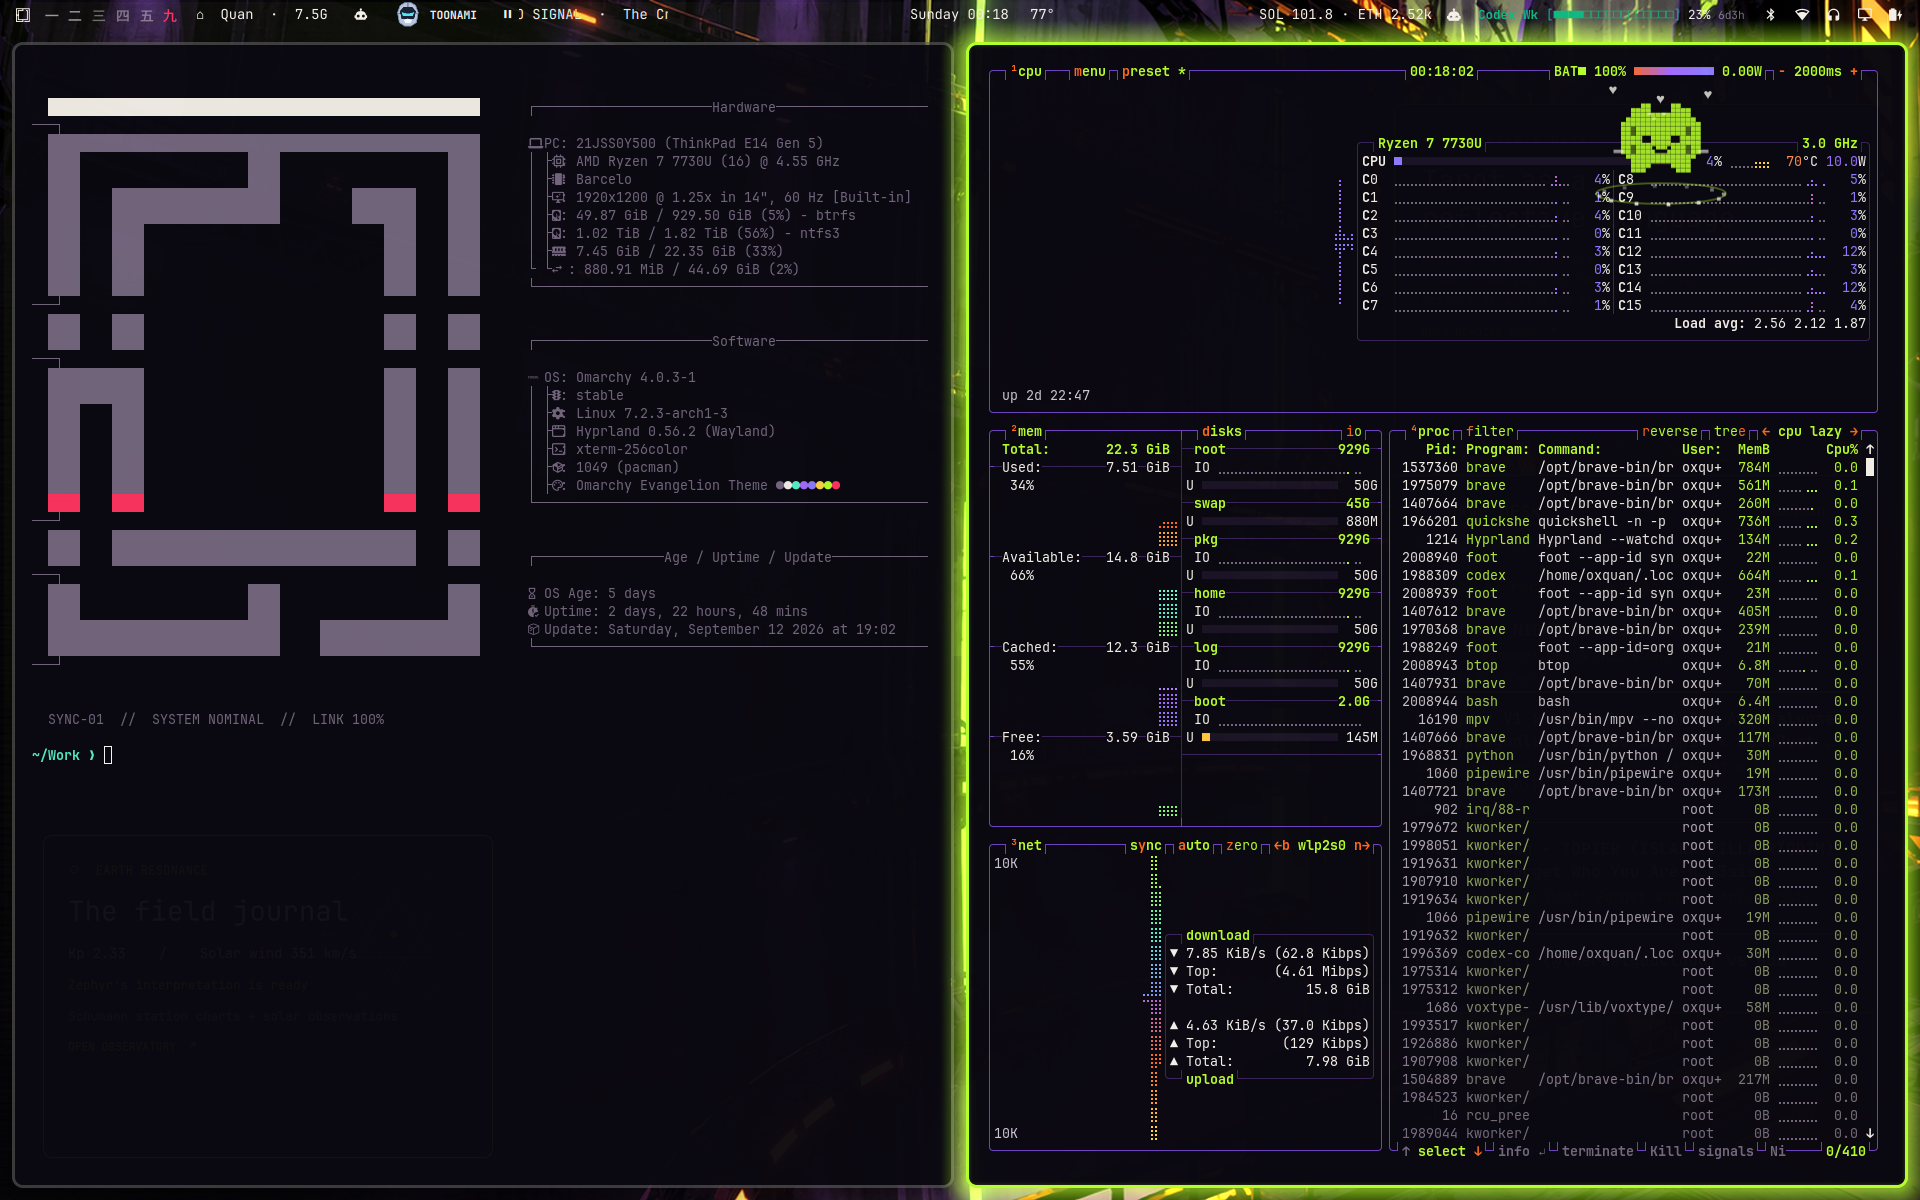
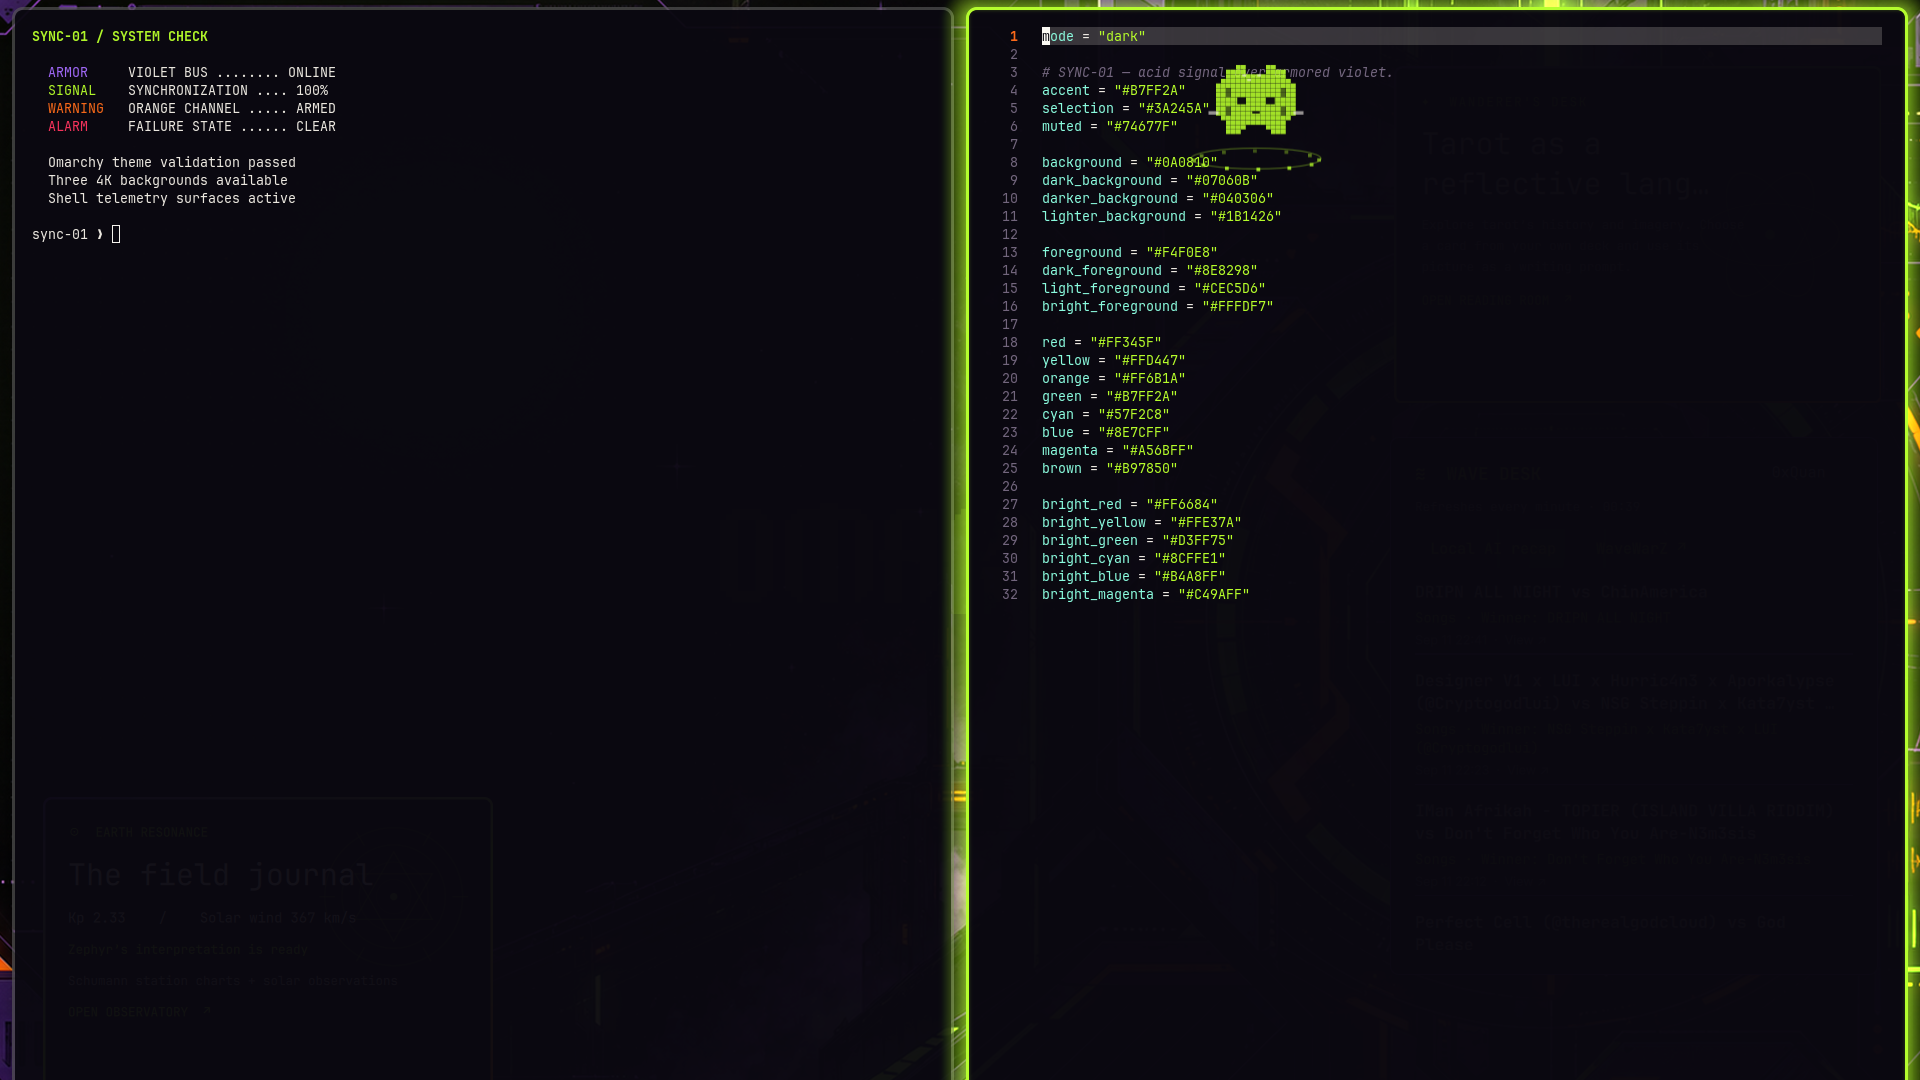
Prepare SYNC-01 for Omarchy marketplace

diff --git a/ARTWORK.md b/ARTWORK.md
@@ -4,7 +4,7 @@
 
 The three backgrounds in `backgrounds/` are original AI-assisted images generated for
 this theme with OpenAI's built-in image-generation tool on 2026-09-13. They were then
-resampled to 3840×2160 for consistent desktop use. The two official HiBy renders supplied
+resampled to 3840×2160 and encoded as quality-82 WebP for efficient desktop use. The two official HiBy renders supplied
 by the project owner were used only as visual style references during generation; the
 outputs were created from scratch and do not redistribute those source files.
 
@@ -16,7 +16,7 @@ product shapes, copied layouts, and recognizable franchise characters.
 
 Generation mode: OpenAI built-in image generation (`stylized-concept`).
 
-**01-cage-01.png:** Original high-impact biomechanical command-center wallpaper inspired
+**01-cage-01.webp:** Original high-impact biomechanical command-center wallpaper inspired
 by the supplied purple, neon-green, and electric-orange industrial hardware references.
 An enormous dark underground launch shaft with black-violet structural ribs and a suspended,
 original angular humanoid biomechanical silhouette mostly obscured on the right; luminous
@@ -25,7 +25,7 @@ and ample dark space on the left. Palette: `#08070D`, `#6F42C1`, `#9A68FF`, `#B7
 `#FF6B1A`, `#F4F0E8`. No text, letters, numbers, logos, watermarks, recognizable franchise
 character, emblem, copied interface, bright-white field, or blue-dominant palette.
 
-**02-synchro-array.png:** Original synchronization-telemetry wallpaper based on the supplied
+**02-synchro-array.webp:** Original synchronization-telemetry wallpaper based on the supplied
 industrial color language: a vast abstract command terminal with concentric hexagonal targeting
 rings, segmented waveforms, angular containment braces, micro-grid calibration marks, and
 layered smoked-glass panels. Retro-anime operations UI meets brutalist industrial design;
@@ -33,7 +33,7 @@ circular focus in the lower-right and a wide near-black working field on the lef
 `#08070D`, `#23123B`, `#6F42C1`, `#B7FF2A`, `#FF6B1A`, `#FF345F`. No readable writing,
 logos, insignia, watermarks, known characters, product shapes, or copied layouts.
 
-**03-terminal-gate.png:** Original emergency-launch environment using the supplied purple
+**03-terminal-gate.webp:** Original emergency-launch environment using the supplied purple
 chassis, green controls, and orange diagnostic-light palette: colossal sealed blast doors in a
 subterranean corridor, angular violet armor, neon-green coolant channels, orange hazard strips,
 floor beacons, vapor, cables, wet reflections, and a distant green slit. Cinematic hand-painted

diff --git a/README.md b/README.md
@@ -13,13 +13,13 @@ the HiBy reference renders are **not** redistributed.
 ## Install
 
 ```bash
-omarchy theme install https://github.com/0xQuan93/omarchy-evangelion-theme.git
+omarchy theme install https://github.com/0xQuan93/omarchy-sync-01-theme.git
 ```
 
 Omarchy applies a newly installed theme immediately. Later, select it again with:
 
 ```bash
-omarchy theme set omarchy-evangelion-theme
+omarchy theme set sync-01
 ```
 
 Cycle the three 4K wallpapers with:
@@ -71,7 +71,8 @@ executable theme files.
 ## Validate locally
 
 ```bash
-python3 tests/validate_theme.py
+python3 -c 'import pathlib, tomllib; tomllib.loads(pathlib.Path("colors.toml").read_text())'
+identify preview.png preview-unlock.png unlock.png backgrounds/*.webp
 ```
 
 ## Fan-project notice

diff --git a/CONTRIBUTING.md b/CONTRIBUTING.md
@@ -10,4 +10,5 @@ Contributions should preserve the theme's semantic hierarchy and public-repo hyg
   photography, copied interfaces, commercial fonts, or unlicensed third-party media.
 - Screenshots must not expose private windows, notifications, account data, or third-party
   copyrighted media.
-- Run `python3 tests/validate_theme.py` before opening a pull request.
+- Parse `colors.toml` and inspect every image's dimensions and decoding before opening a
+  pull request; the commands in the README are the portable baseline.

diff --git a/screenshots/README.md b/screenshots/README.md
@@ -1,7 +1,8 @@
 # Screenshots
 
-`desktop-terminal-telemetry.png` is a live Omarchy 4.0.3-1 capture using the
-SYNC-01 palette, Cage 01 wallpaper, Foot/Fastfetch, and btop.
+The root `preview.png` is a live 16:9 Omarchy 4.0.3-1 capture using the SYNC-01
+palette, Terminal Gate wallpaper, Foot, and Neovim. The top bar was cropped to
+exclude personal and live-system metadata.
 
 The repository does not include screenshots of third-party media or official
 Evangelion imagery.
